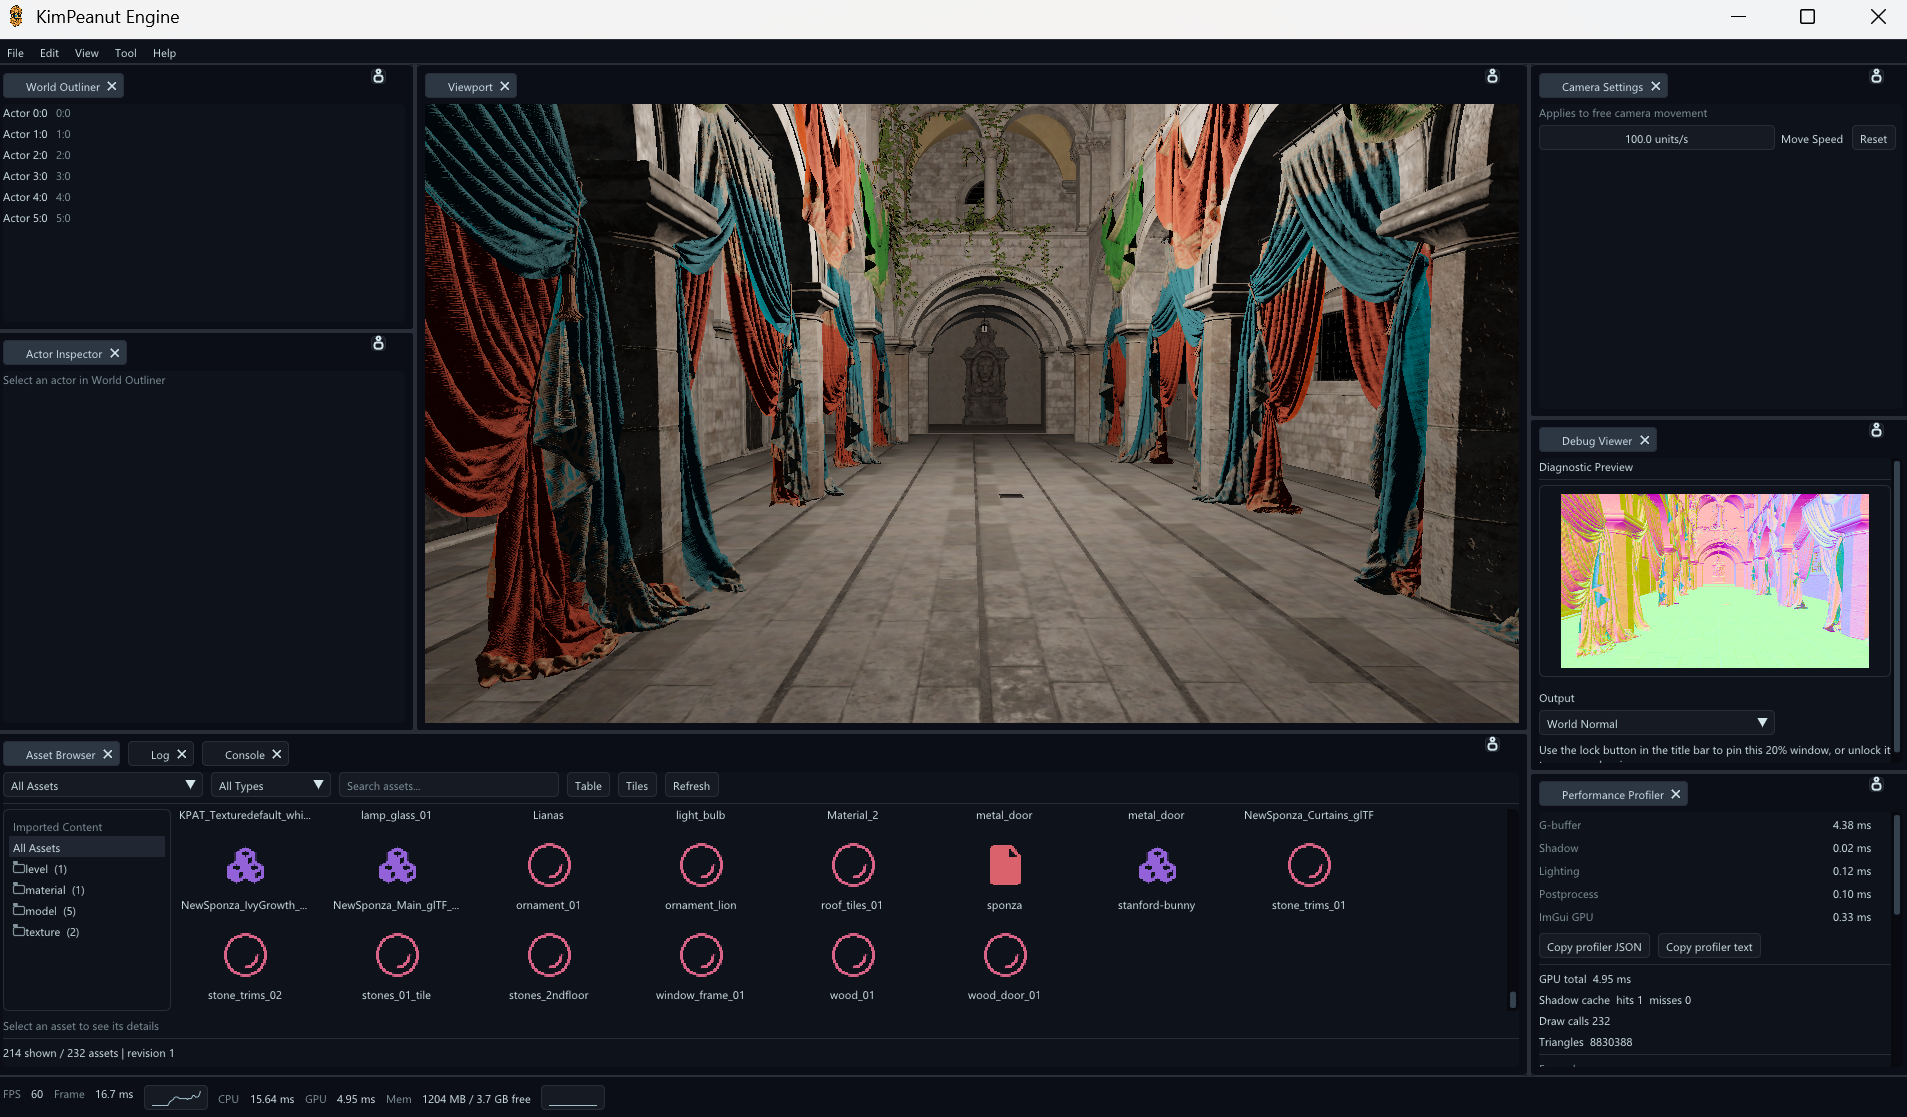
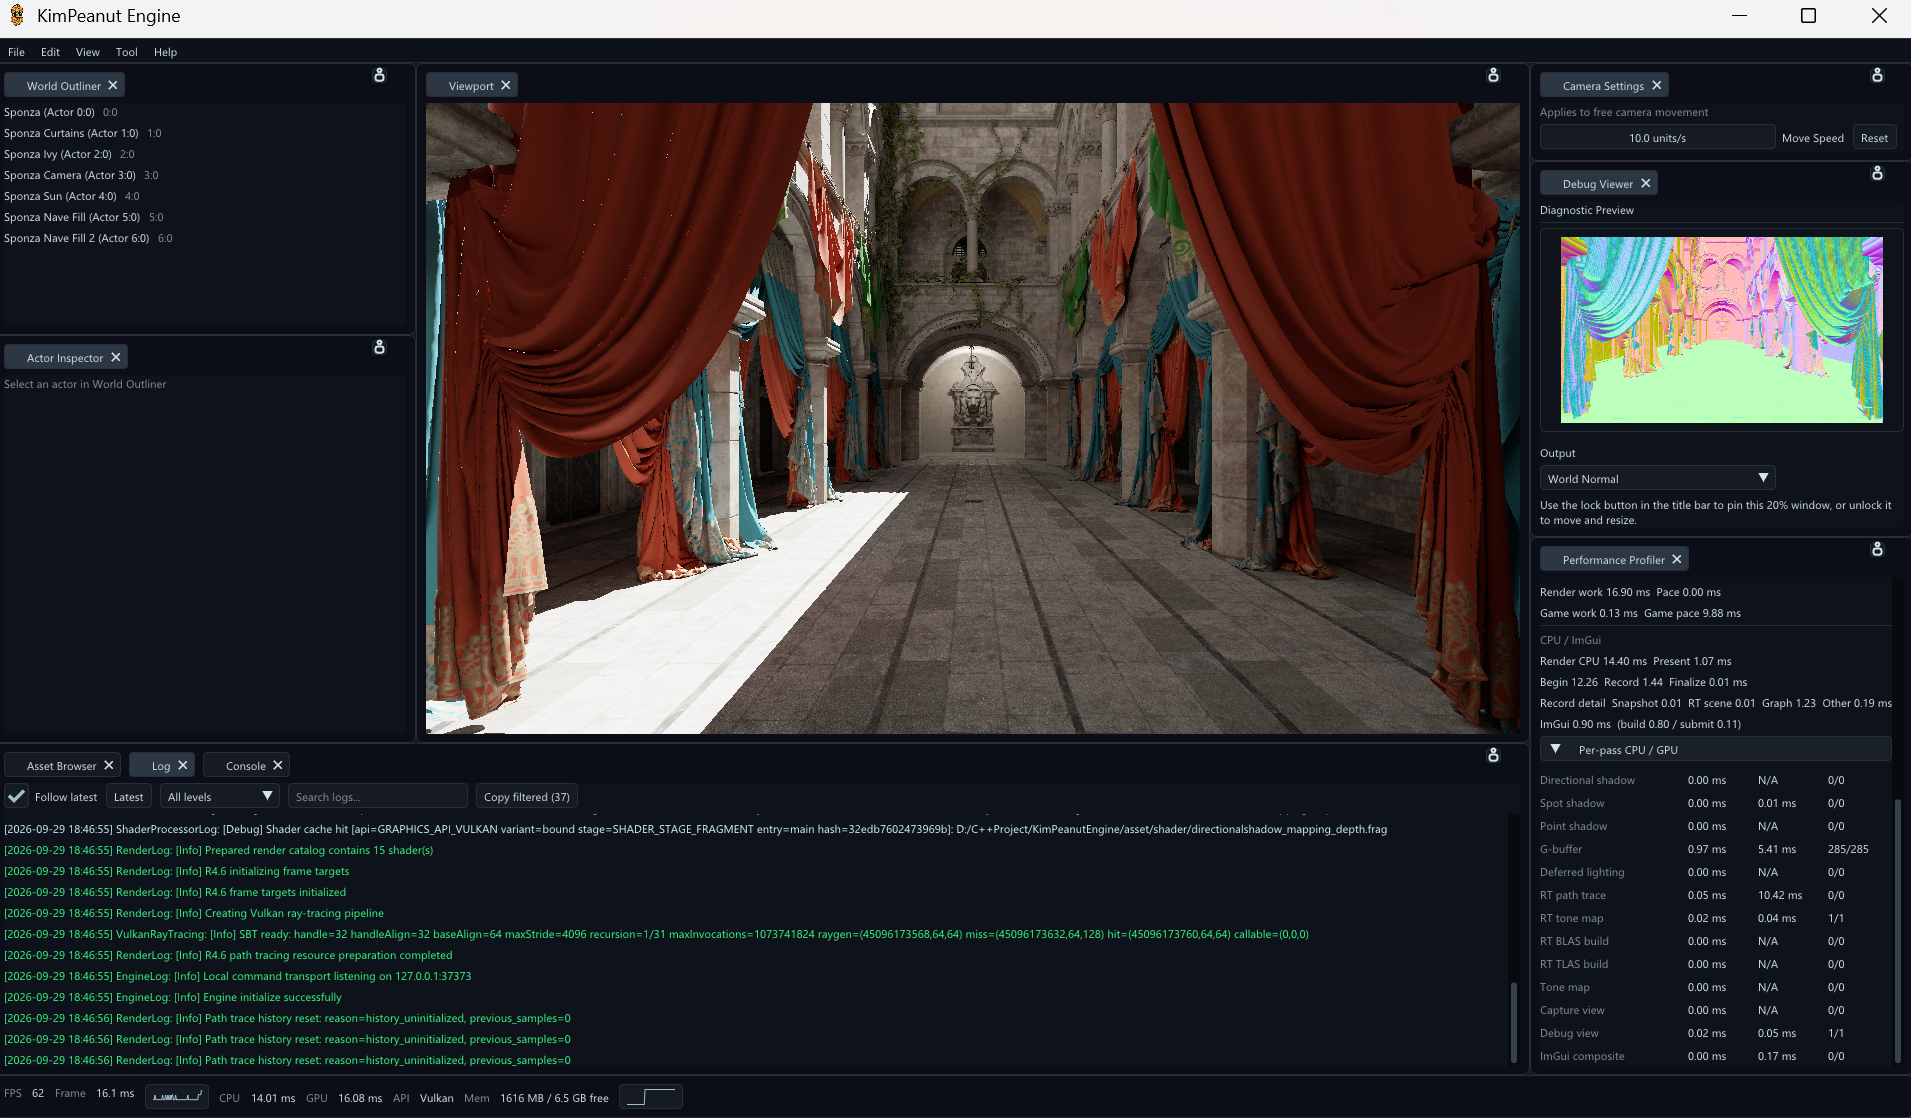
feat(release): bump version to 1.3.0 with path tracing showcase

diff --git a/engine/runtime/graphics/backend/vulkan/vulkan_device.cpp b/engine/runtime/graphics/backend/vulkan/vulkan_device.cpp
@@ -201,9 +201,9 @@ namespace kpengine::graphics
         VkApplicationInfo app_info{};
         app_info.sType = VK_STRUCTURE_TYPE_APPLICATION_INFO;
         app_info.pApplicationName = "KimPeanut Engine";
-        app_info.applicationVersion = VK_MAKE_VERSION(1, 2, 0);
-        app_info.pEngineName = "No Engine";
-        app_info.engineVersion = VK_MAKE_VERSION(1, 2, 0);
+        app_info.applicationVersion = VK_MAKE_VERSION(1, 3, 0);
+        app_info.pEngineName = "KimPeanut Engine";
+        app_info.engineVersion = VK_MAKE_VERSION(1, 3, 0);
         app_info.apiVersion = VK_API_VERSION_1_3;
 
         VkInstanceCreateInfo instance_create_info{};

diff --git a/README.en.md b/README.en.md
@@ -1,6 +1,6 @@
 # KimPeanut Engine
 
-**Engine version: 1.2.0**
+**Engine version: 1.3.0**
 
 ![KimPeanut Engine](./docs/images/readme-banner.png)
 
@@ -18,11 +18,32 @@ prototypes.
 See the [architecture overview](docs/architecture_overview.md) for module
 relationships, data flow, and ownership boundaries.
 
-# Show Cases
+# Showcases
+
+### Real-time path tracing and global illumination
+
+The Vulkan path tracer supports progressive accumulation and adaptive SPP. It
+uses 1 SPP with guided spatial denoising while the camera moves. After eight
+stable camera frames, it uses 4 SPP below 100 accumulated samples, 2 SPP from
+100, and 1 SPP from 200, continuing to accumulate across frames for a cleaner
+still image. SPP thresholds and rates are configurable, and fixed-SPP mode
+remains available. Path tracing is experimental; performance and image quality
+depend on the scene and hardware.
 
 <p align="center">
-  <img src="./resouce/example/live2d.png" width="30%" />
-  <img src="./resouce/example/main.png" width="65%" />
+  <img src="./resouce/example/sponza.png" width="49%" alt="Path-traced Sponza scene" />
+  <img src="./resouce/example/cornell_box.png" width="49%" alt="Cornell Box global illumination and color bleeding" />
+</p>
+
+### Editor and loading screen
+
+<p align="center">
+  <img src="./resouce/example/main.png" width="49%" alt="Sponza in the KimPeanut Engine editor" />
+  <img src="./resouce/example/loading.png" width="49%" alt="Scene asset loading screen" />
+</p>
+
+<p align="center">
+  <img src="./resouce/example/live2d.png" width="49%" alt="Live2D example" />
 </p>
 
 ## Features
@@ -34,6 +55,7 @@ The main path is `Asset → Resource → Render → RHI`.
 - **Asset**: `AssetManager` owns typed asset IDs, path deduplication, generation checks, caching, dependencies, and CPU-side lifetime; synchronous and asynchronous loads share one pipeline.
 - **Resource / Import / Cook**: Converts CPU assets into native products and render data; imports and cooks models, materials, and textures with dependency closure, image decoding, mipmaps, format policy, and content-addressed output.
 - **Render**: Owns RenderWorld, MeshProxy, materials, render targets, fixed pass scheduling, SceneColor, shadows, and debug capture; it does not read arbitrary source files.
+- **Ray tracing**: The Vulkan backend provides experimental real-time path tracing and global illumination. Progressive accumulation and adaptive SPP adjust sample rate between camera motion and still views. A Vulkan ray-tracing-capable GPU and driver are required; OpenGL continues to provide raster rendering.
 - **Graphics / RHI**: Connects Vulkan and OpenGL through API-neutral handles, descriptions, and `RenderBackend`, owning GPU resources, pipelines, commands, synchronization, and deferred release.
 
 ### Supporting systems

diff --git a/docs/status.md b/docs/status.md
@@ -675,7 +675,7 @@
 
 **Snapshot: 2026-09-12.** This is the agent's source of truth for *what state the world is in* — update it as work lands so a future session doesn't re-derive it. Per-module detail lives in the module docs ([asset](asset/asset_module.md), [graphics](graphics/graphics_module.md), [render](render/overview.md), [resource](resource/resource_module.md), [reflection](reflection/PLANS.md)); this page is the one-line-per-item index.
 
-**Current release: v1.2.0.**
+**Current release: v1.3.0.**
 
 - **Runtime window resize command (2026-09-12)** — new `window.resize`
   Runtime command taking `width`/`height` (1–16384) and resizing the active
